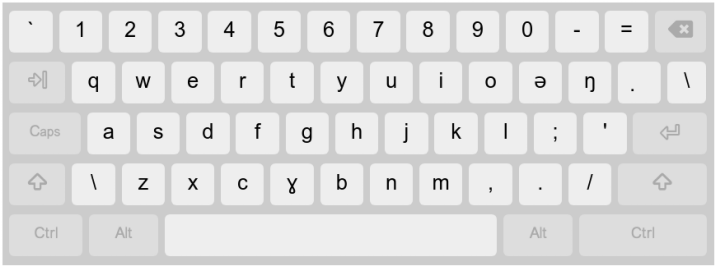
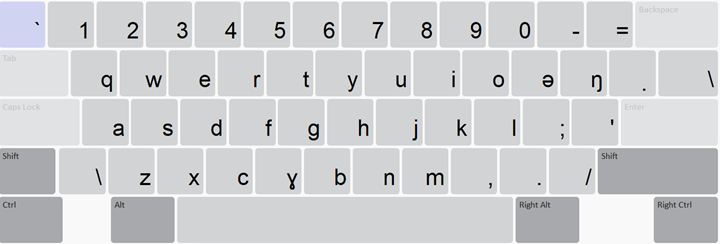
fix: numeric symbols and desktop screenshots

diff --git a/release/sil/sil_tagdal/HISTORY.md b/release/sil/sil_tagdal/HISTORY.md
@@ -1,6 +1,6 @@
 Tagdal (SIL) Keyboard Change History
 =======================
 
-1.0 (24 Jan 2024)
+1.0 (27 Jan 2024)
 -----------------
 * Initial creation for desktop and mobile layouts
